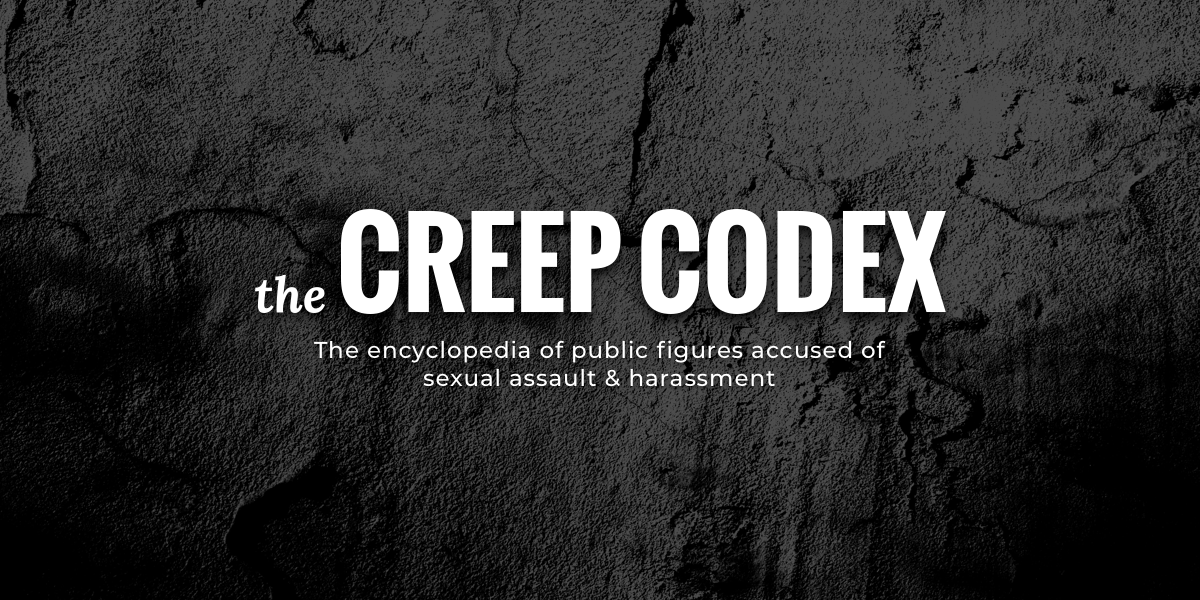
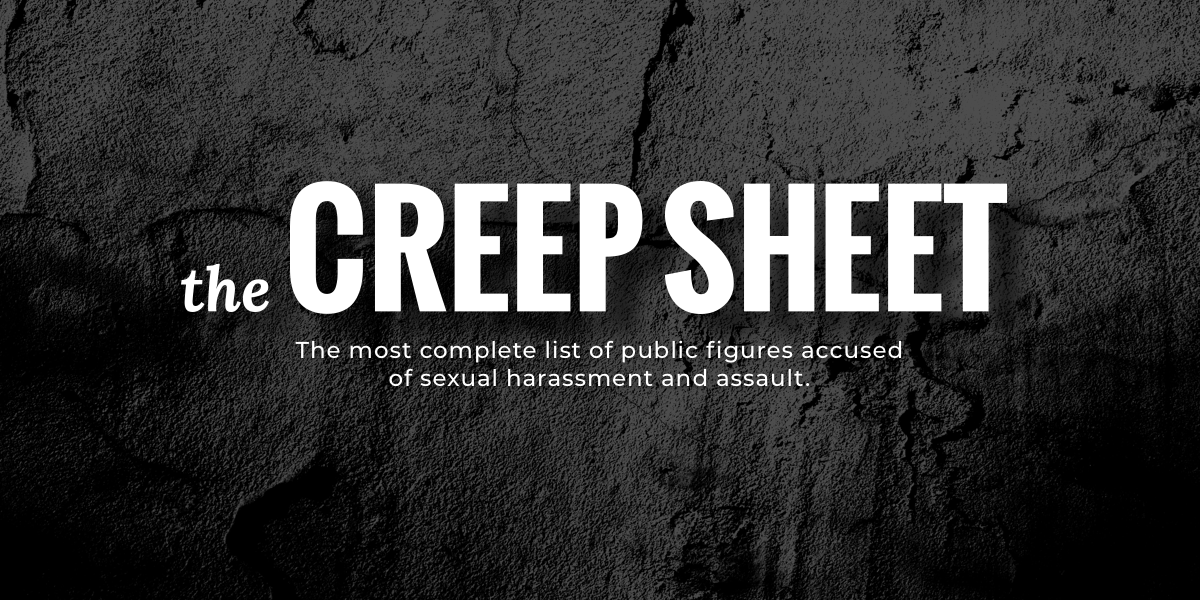
Updated various assets for name change to creep sheet

Changed region(s): [[0.1542, 0.3, 0.8633, 0.66]]

diff --git a/web/app/themes/creepcodex/setup/Content/Accused.php b/web/app/themes/creepcodex/setup/Content/Accused.php
@@ -16,7 +16,7 @@ class Accused extends Post {
 		);
 
 		if ($image = $this->thumbnail()){
-			$data['image'] = $image->src('large');
+			$data['image'] = $image->src('full');
 		}
 
 		if ($this->meta('job_title')){
@@ -86,15 +86,14 @@ class Accused extends Post {
 		if ($this->thumbnail()){
 			$data[] = array(
 				'key' => 'og:image',
-				'value' => $this->thumbnail()->src('large')
+				'value' => $this->thumbnail()->src('full')
 			);
 		}
-		else {
-			$data[] = array(
-				'key' => 'og:image',
-				'value' => get_template_directory_uri() . '/assets/img/open-graph-default.png'
-			);
-		}
+
+		$data[] = array(
+			'key' => 'og:image',
+			'value' => get_template_directory_uri() . '/assets/img/open-graph-default.png'
+		);
 
 		return $data;
 
